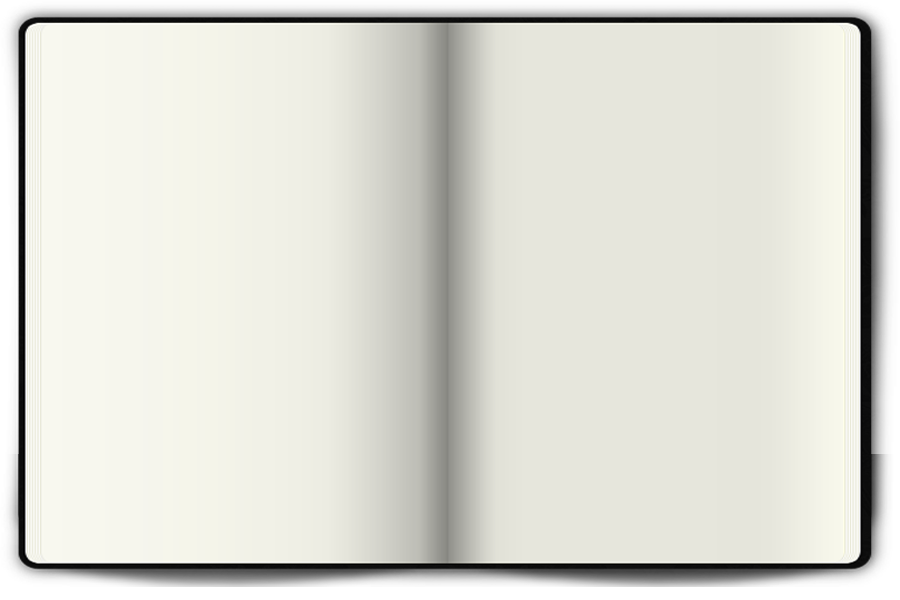
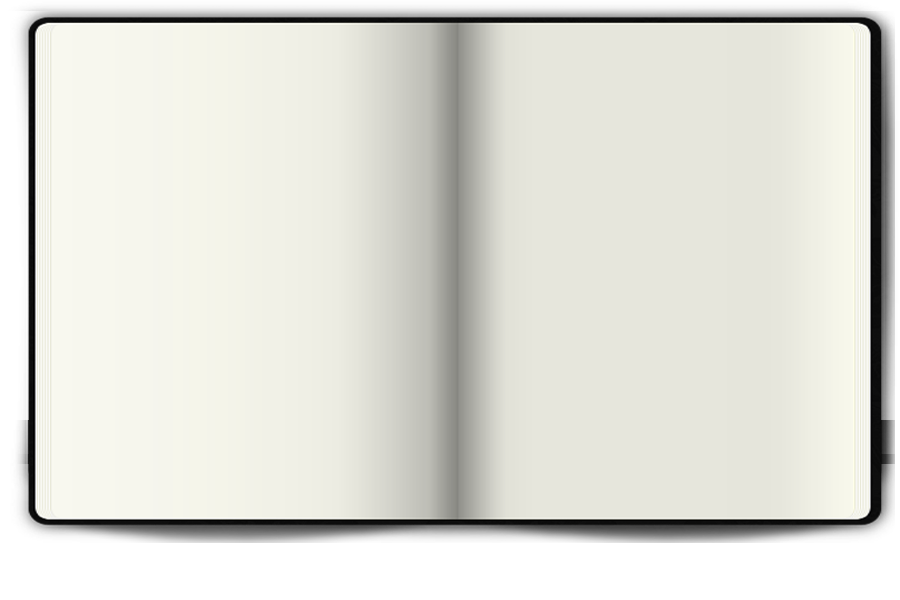
Add files via upload

Changed region(s): [[0.0, 0.03, 0.9956, 0.99]]

diff --git a/bludit/bl-themes/book/css/style.css b/bludit/bl-themes/book/css/style.css
@@ -9,6 +9,7 @@ body{
 	font-size:12px;
 	color: #000;
 
+
 }
 h1{
 	color:#2F1B0C;
@@ -77,7 +78,11 @@ span.reference a:hover{
 }
 .book_wrapper{
 	margin:30px auto;
+
+
 	padding-top:50px;
+
+	
 	width:905px;
 	height:540px;
 	position:relative;
@@ -140,10 +145,10 @@ a#prev_page_button{
 	background:transparent url(/bludit/bl-themes/book/images/buttons.png) no-repeat 0px -40px;
 }
 a#prev_page_button{
-	left:-30px;
+	left:-3px;
 }
 a#next_page_button{
-	right:-30px;
+	right:-16px;
 	background-position:-41px -40px;
 }
 a#next_page_button:hover{
